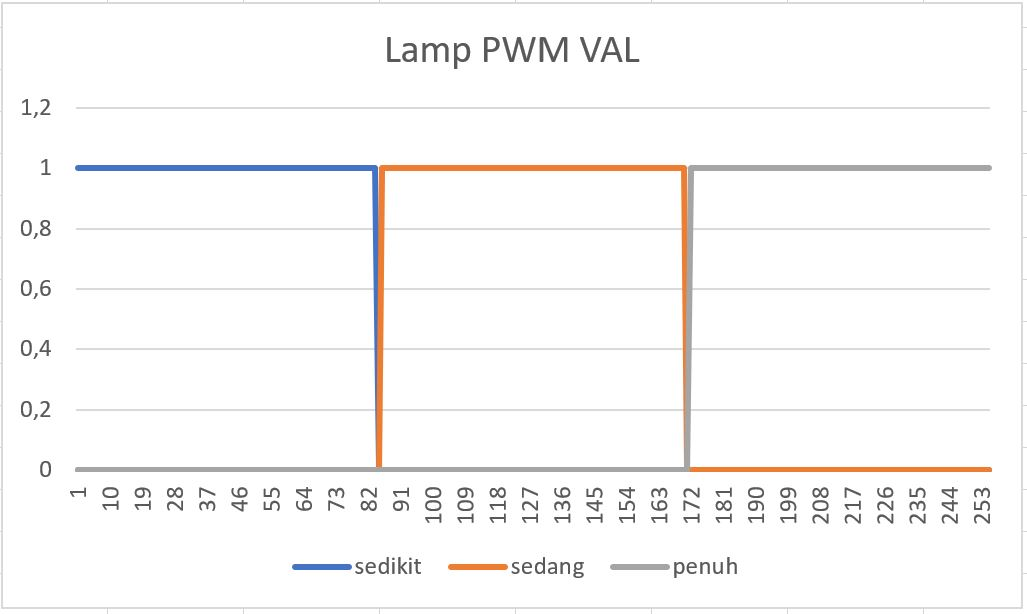
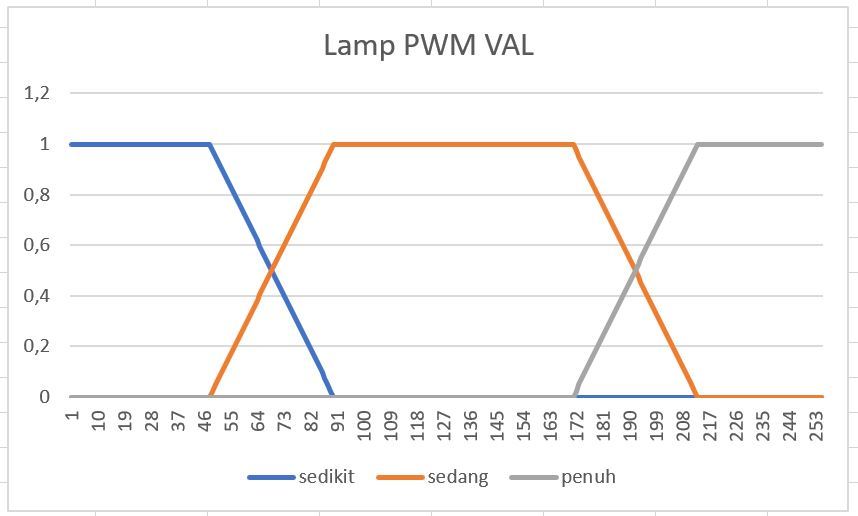
finish on adding fuzzylogic to arduion and show to web

diff --git a/public/assets/demo/demo.js b/public/assets/demo/demo.js
@@ -18,6 +18,9 @@ client.on('connect', function () {
     client.subscribe("/aktuator/fuzzylamp", {
       qos: 1
     });
+    client.subscribe("/aktuator/class", {
+      qos: 1
+    });
 
 
     console.log("Client Has subscribe to MQTT broker")
@@ -35,6 +38,7 @@ client.on('message', function (topic, message) {
       document.getElementById("cahaya-val").innerHTML = message.toString() + " Lumens";
       dataGetCahaya = message.toString();
       // demo.initChartsPages();
+      
 
     }
     if(topic === '/aktuator/fuzzylamp'){
@@ -42,9 +46,10 @@ client.on('message', function (topic, message) {
       dataGetLamp = message.toString();
       // demo.initChartsPages(); 
       pushArray(dataGetTemp,dataGetCahaya,dataGetLamp)
-
     }
-
+    if(topic === '/aktuator/class'){
+      document.getElementById("class-val").innerHTML = message.toString();
+    }
 
 });
 

diff --git a/public/examples/dashboard.html b/public/examples/dashboard.html
@@ -203,9 +203,10 @@ Coded by www.creative-tim.com
                   </div>
                   <div class="col-7 col-md-8">
                     <div class="numbers">
-                      <p class="card-category">Automatic Lamp Controll</p>
-                      <p class="card-title " id="fuzzy-val">NaN<p>
-                        <div style="margin-bottom: 50px;"></div>
+                      <p class="card-category">PWM Lamp Value</p>
+                      <p class="card-title " id="fuzzy-val">NaN</p>
+                      <p class="card-title " id="class-val">NaN</p>
+                        <div style="margin-bottom: 10px;"></div>
 
                     </div>
                   </div>
